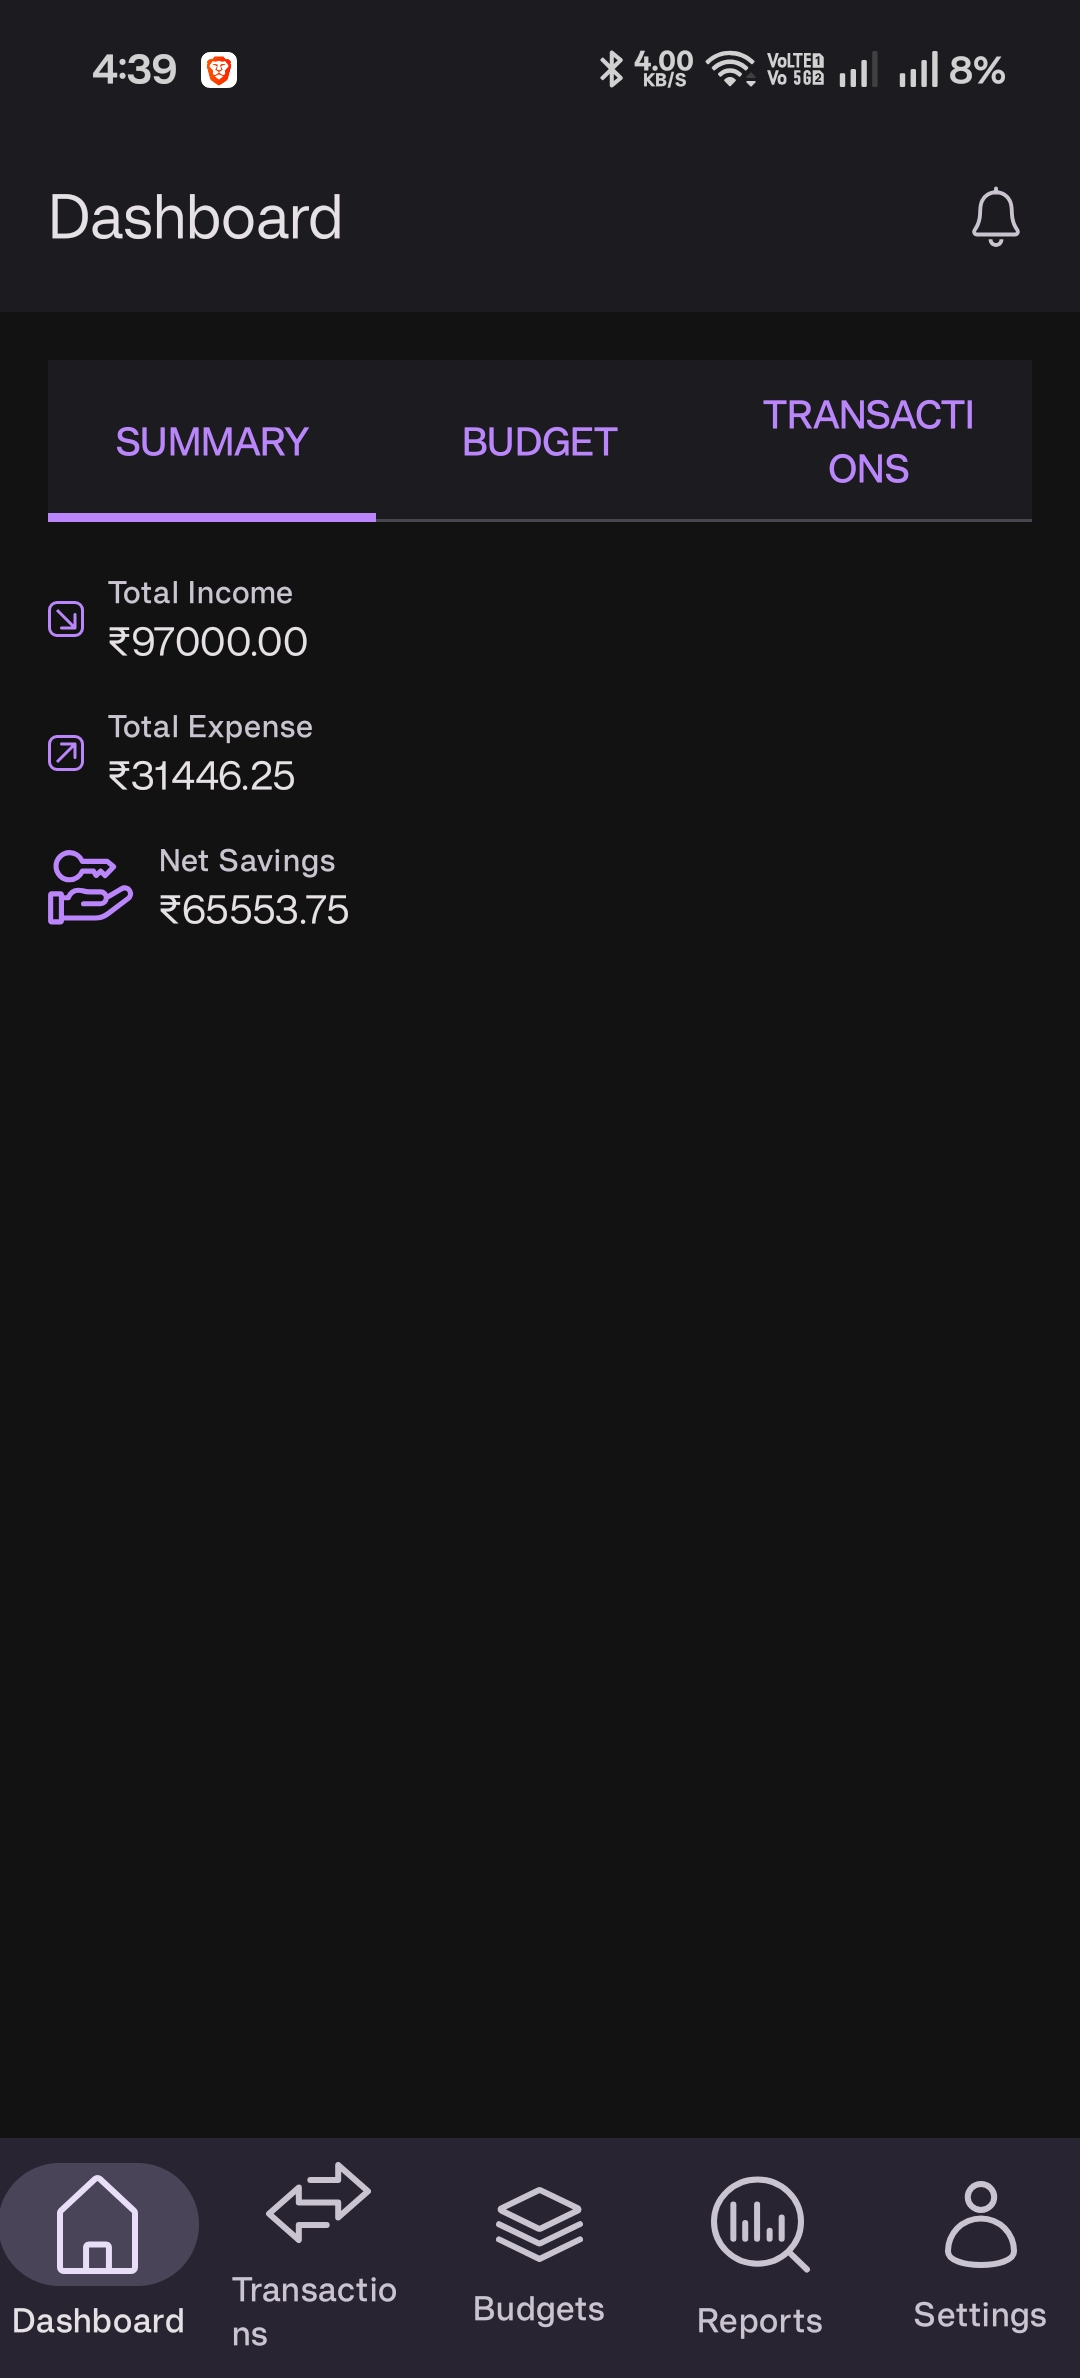
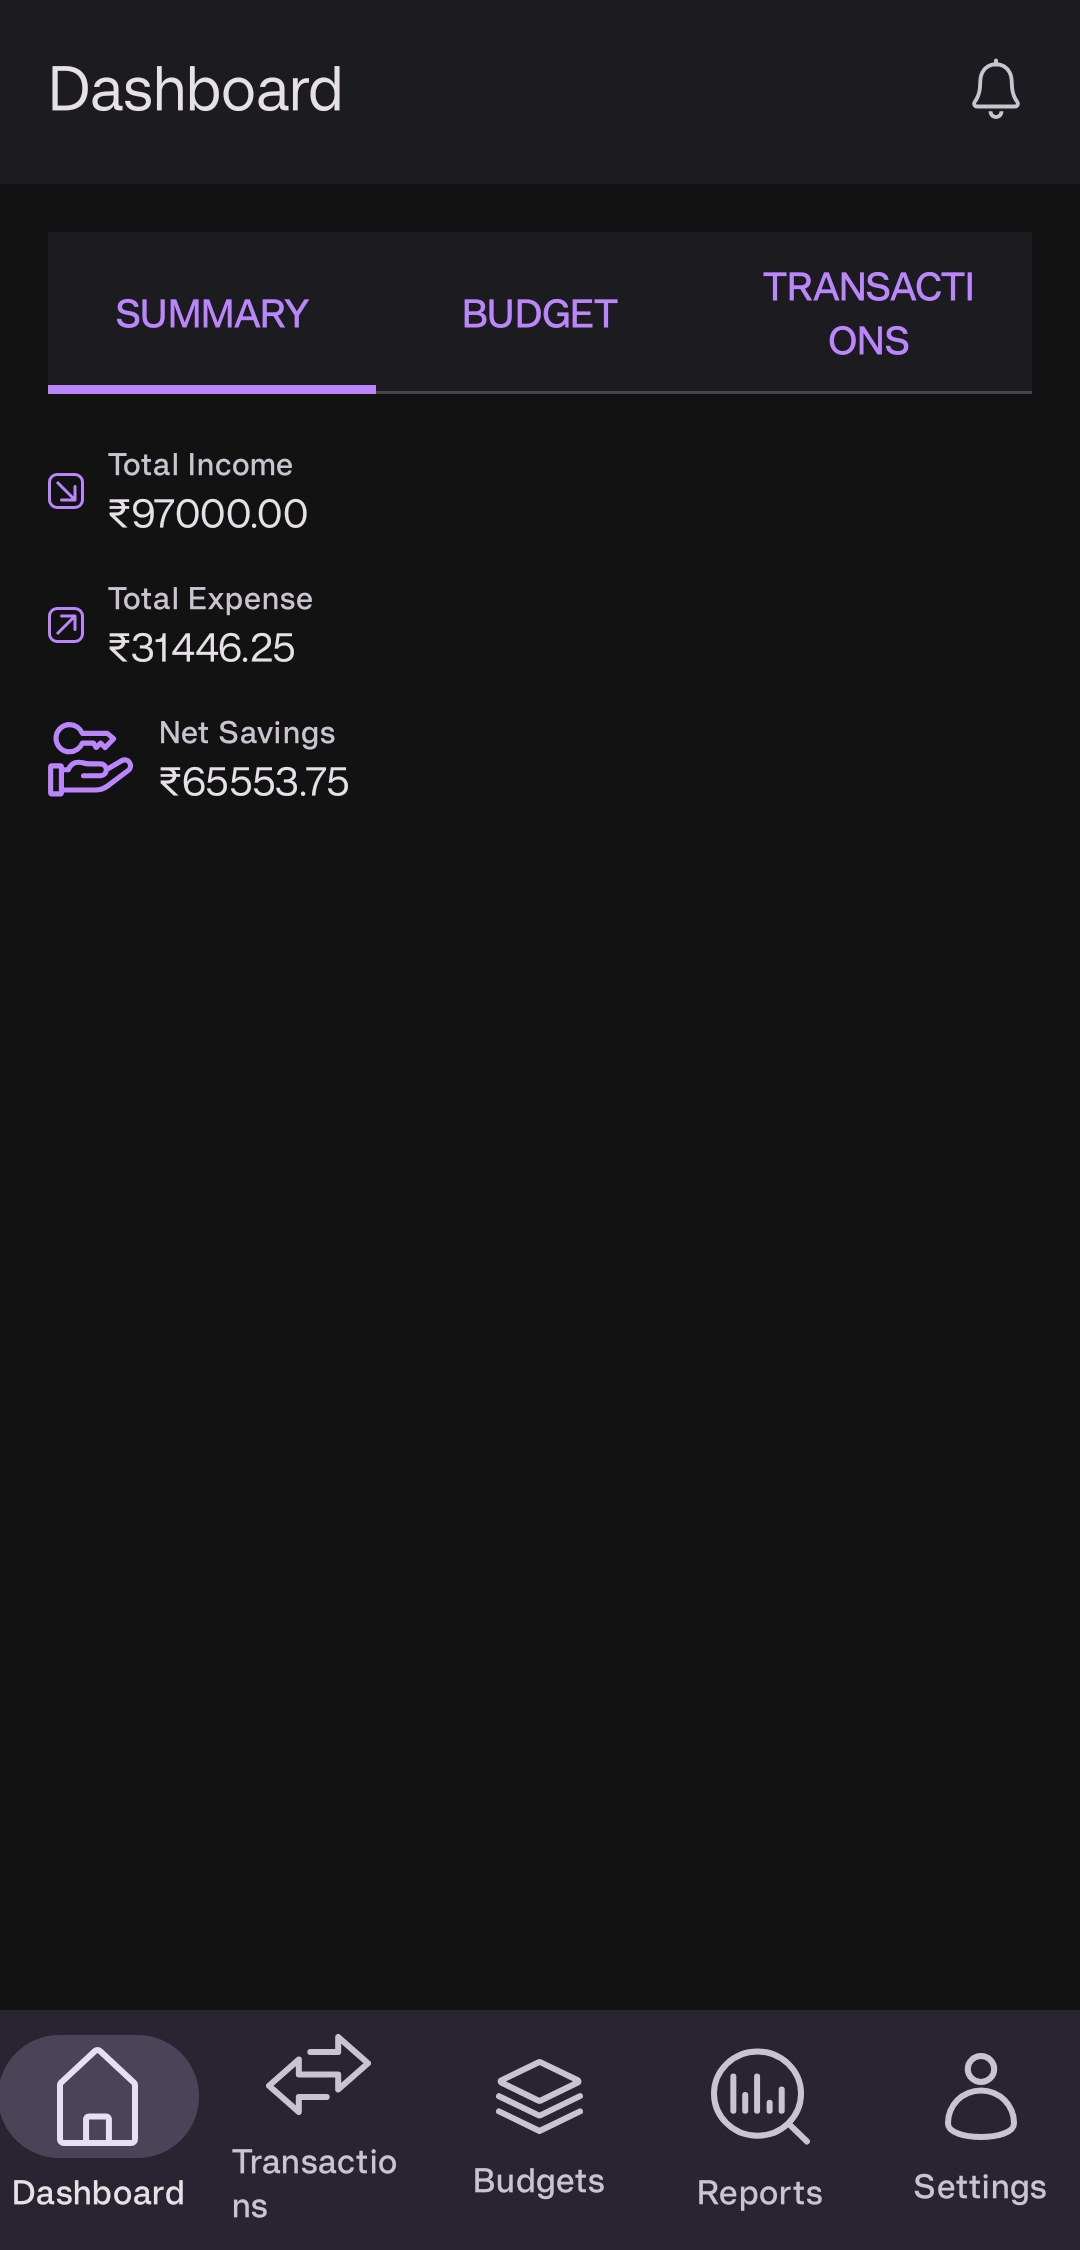
docs: screenshots without the status bar, push notifications caption

diff --git a/engineering.md b/engineering.md
@@ -535,3 +535,12 @@
 - **Correction (my check):** `F=$(grep -c "Push failed" /tmp/app.log)` ended an `&&` chain before the push trigger ran: `grep -c` prints 0 but exits 1 when nothing matches. Fixed with `|| true`.
 - **Bump:** before the screenshots the APK was older than 13 source files, so it was rebuilt; `./gradlew --stop` reported 7 daemons still running from earlier builds.
 - **Not verified:** how GitHub renders the grid (checked after the push), and that each image shows the screen its caption names (the images were not visible to me).
+
+## 2026-10-06 - Screenshots without the status bar (`docs/screenshot-crop`)
+
+- **Bug:** five README screenshots (1080x2378) showed the phone's status bar: time, battery, network and a personal app icon. `notifications.jpg` (1080x1464) had already been cropped and has none.
+- **Fix:** lossless crop of the top 128 px with `jpegtran -perfect -copy none -crop 1080x2250+0+128` (`libjpeg-turbo-progs`, installed in the Codespace with apt; no Python or ImageMagick there). The status bar fills about the top 110 px; 128 is a multiple of the 16 px block size of these 4:2:0 JPEGs, so `-perfect` can crop without re-encoding (it refuses otherwise). Each crop only runs while the height is still 2378, so a re-run cannot cut twice. A 128 px cut was previewed on the originals first: the app title bars stay intact.
+- **Fix:** `-copy none` also drops the EXIF metadata (a firmware build string; no location) from all six images.
+- **Fix:** the last caption said "Notifications", but the image is the notification shade with two "Quantro" pushes, not the in-app list; relabeled "Push notifications". The screenshot also confirms the push from the demo seed reached the phone.
+- **Observed (not fixed):** on the Transactions screen the bottom-nav label wraps ("Transactio" / "ns"); a UI fix for later.
+- **Verified:** `djpeg -verbose` reports height 2250 for the five cropped images (also checked in the commit chain) and 1464 for `notifications.jpg`; visual check in the Codespace; README checksum matches a dry run of the same `sed`.

diff --git a/README.md b/README.md
@@ -11,8 +11,8 @@ The engineering log, with the bugs, root causes and decisions behind each change
 | Login | Dashboard | Transactions |
 |:---:|:---:|:---:|
 | <img src="docs/screenshots/login.jpg" width="230" alt="Login screen"> | <img src="docs/screenshots/dashboard.jpg" width="230" alt="Dashboard"> | <img src="docs/screenshots/transactions.jpg" width="230" alt="Transactions list"> |
-| **Budgets** | **Reports** | **Notifications** |
-| <img src="docs/screenshots/budgets.jpg" width="230" alt="Budgets with spending progress"> | <img src="docs/screenshots/reports.jpg" width="230" alt="Reports"> | <img src="docs/screenshots/notifications.jpg" width="230" alt="Notifications"> |
+| **Budgets** | **Reports** | **Push notifications** |
+| <img src="docs/screenshots/budgets.jpg" width="230" alt="Budgets with spending progress"> | <img src="docs/screenshots/reports.jpg" width="230" alt="Reports"> | <img src="docs/screenshots/notifications.jpg" width="230" alt="Push notifications in the notification shade"> |
 
 ## Features
 
